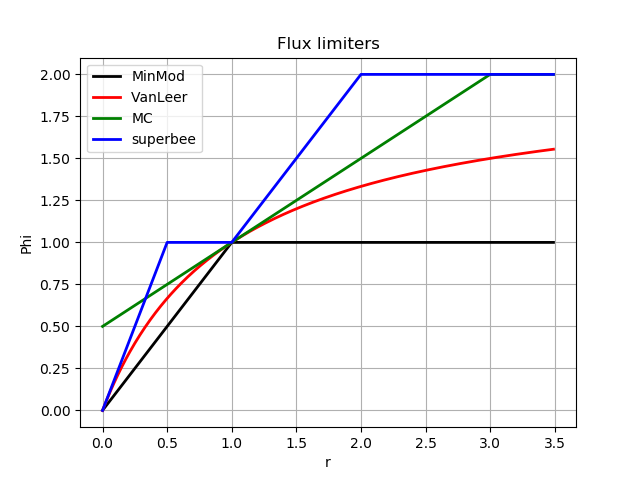
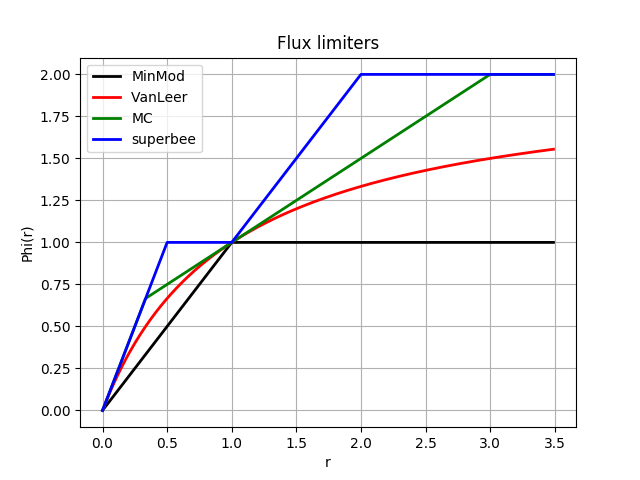
flux_limiter figure fixed in PorousFlow doco
Fixes #12731

diff --git a/framework/doc/content/media/porous_flow/flux_limiters.py b/framework/doc/content/media/porous_flow/flux_limiters.py
@@ -20,7 +20,7 @@ def vanleer(x):
     return 2 * np.abs(x) / (1 + np.abs(x))
 
 def mc(x):
-    return np.minimum(0.5 * np.abs(1 + x), 2, 2 * np.abs(x))
+    return np.minimum(0.5 * np.abs(1 + x), np.minimum(2, 2 * np.abs(x)))
 
 def superbee(x):
     return np.maximum(np.minimum(2, np.abs(x)), np.minimum(1, 2 * np.abs(x)))
